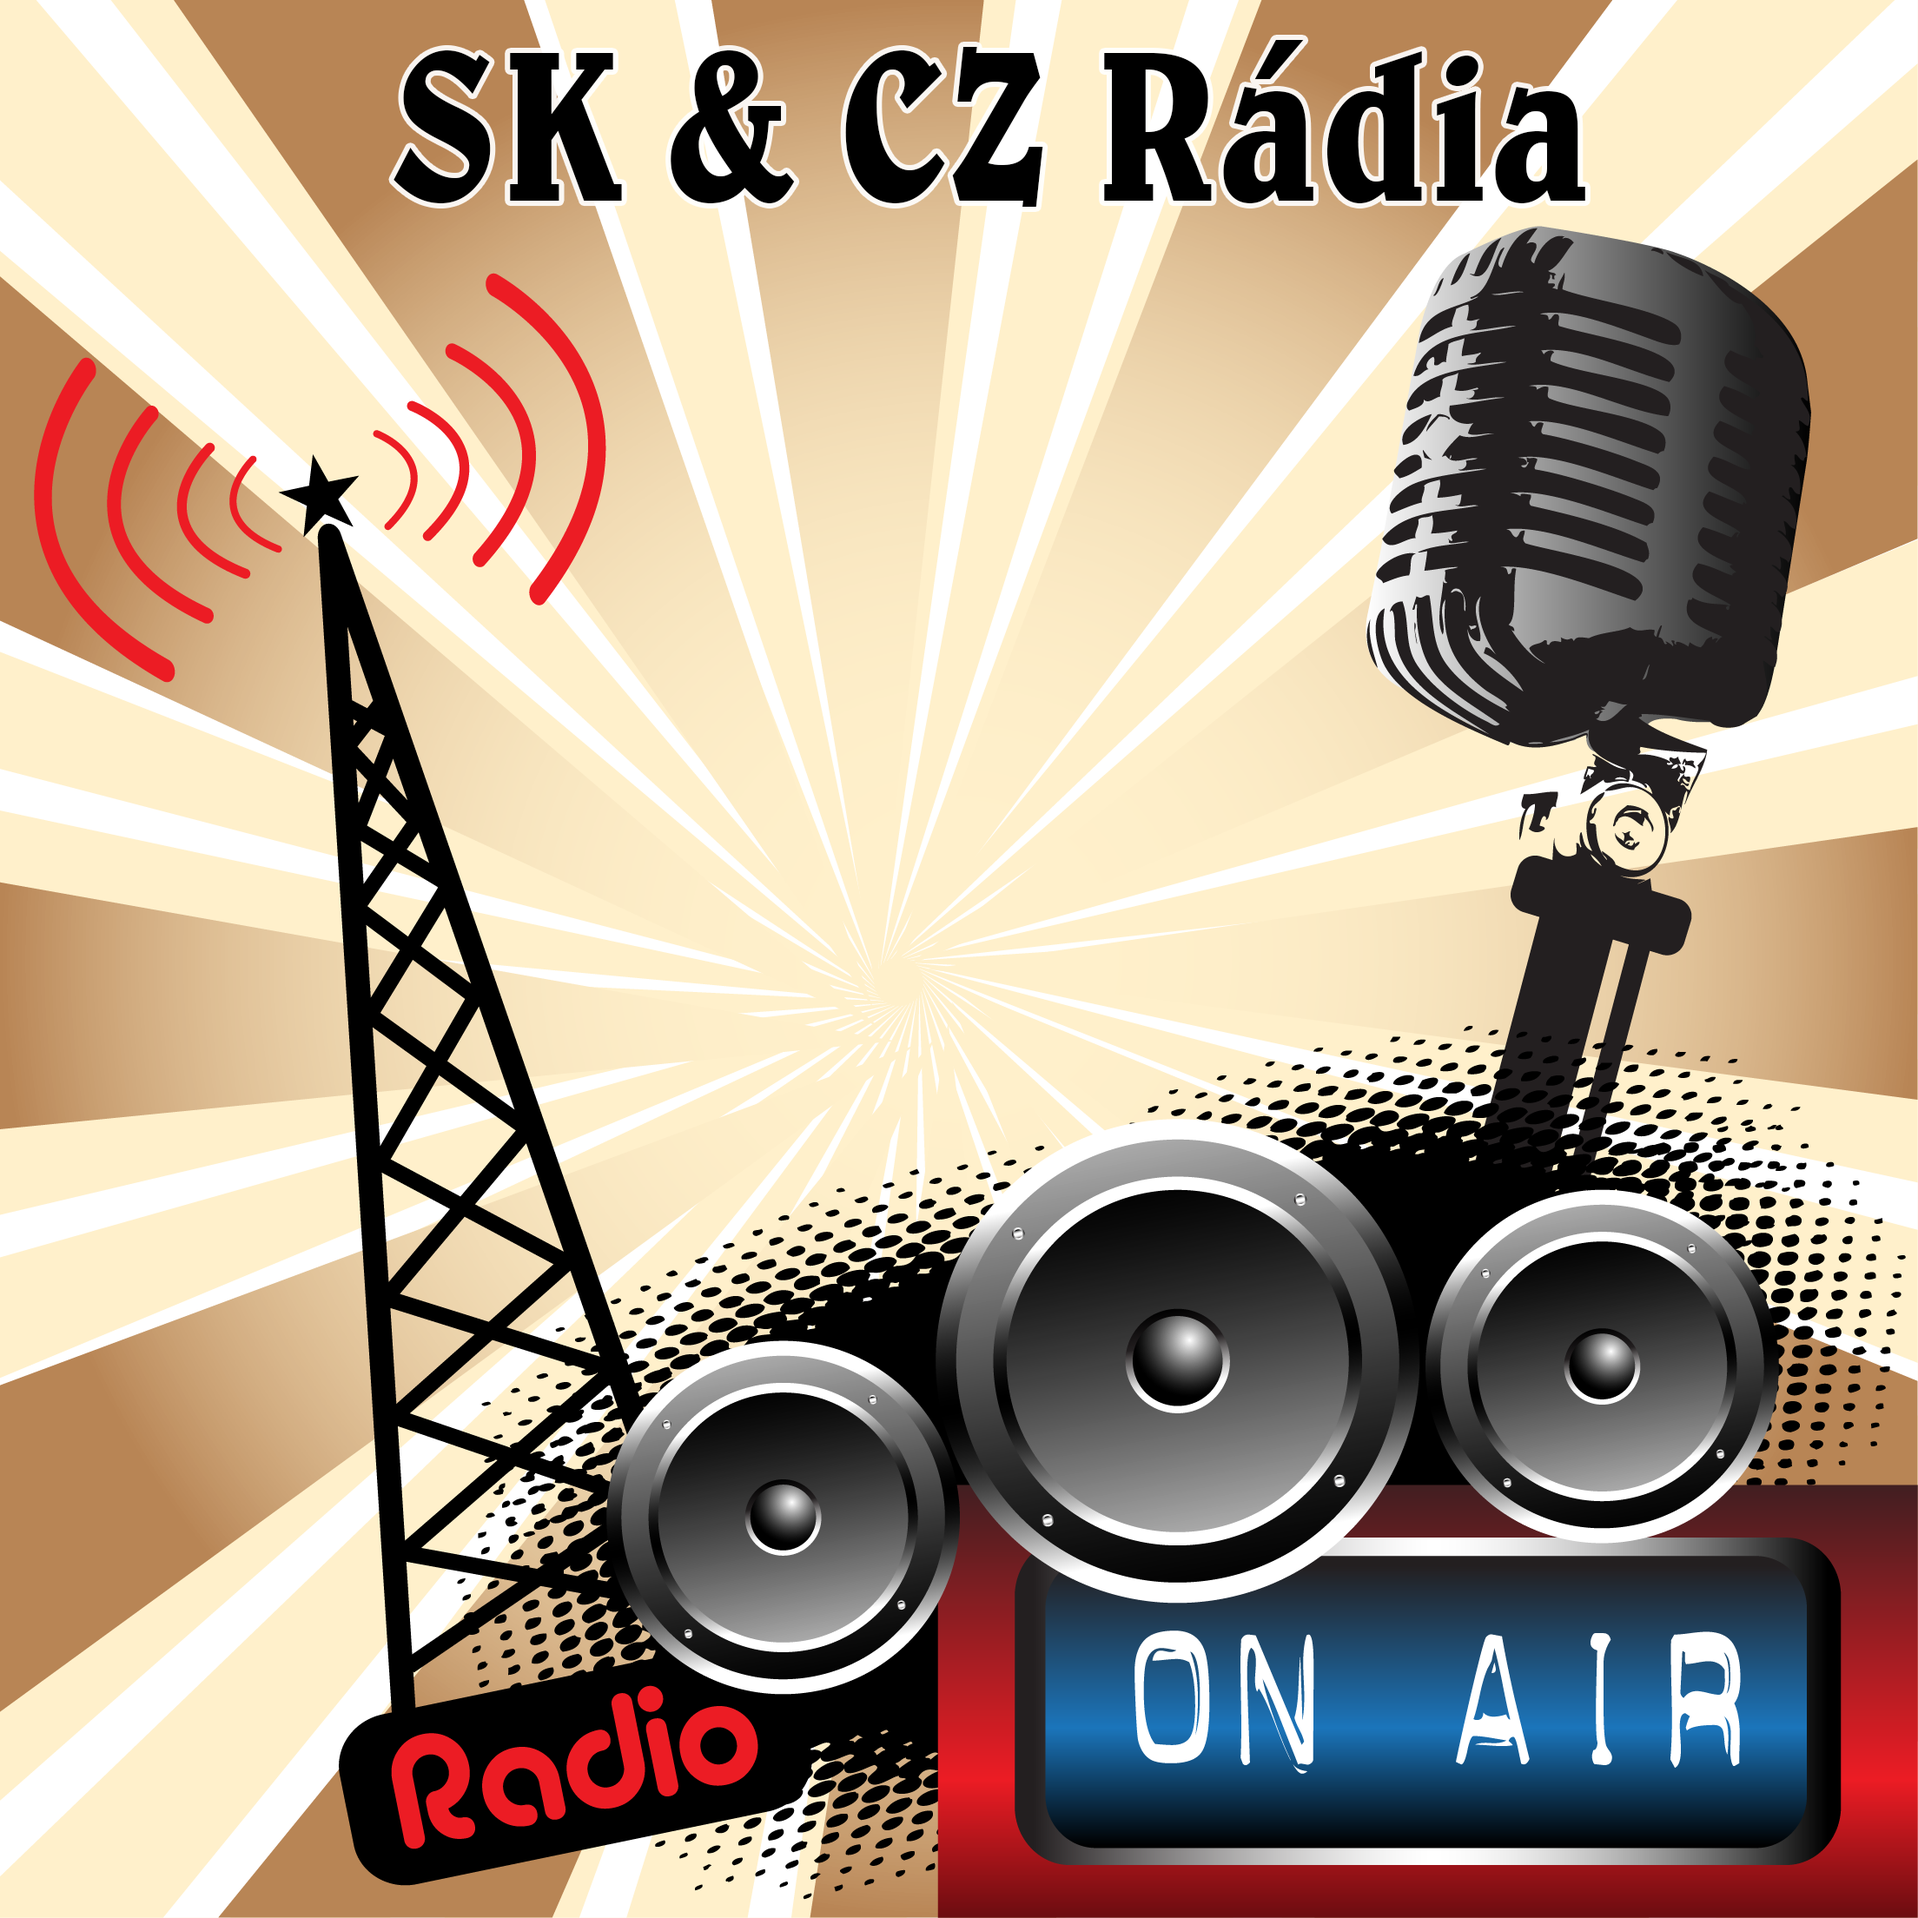
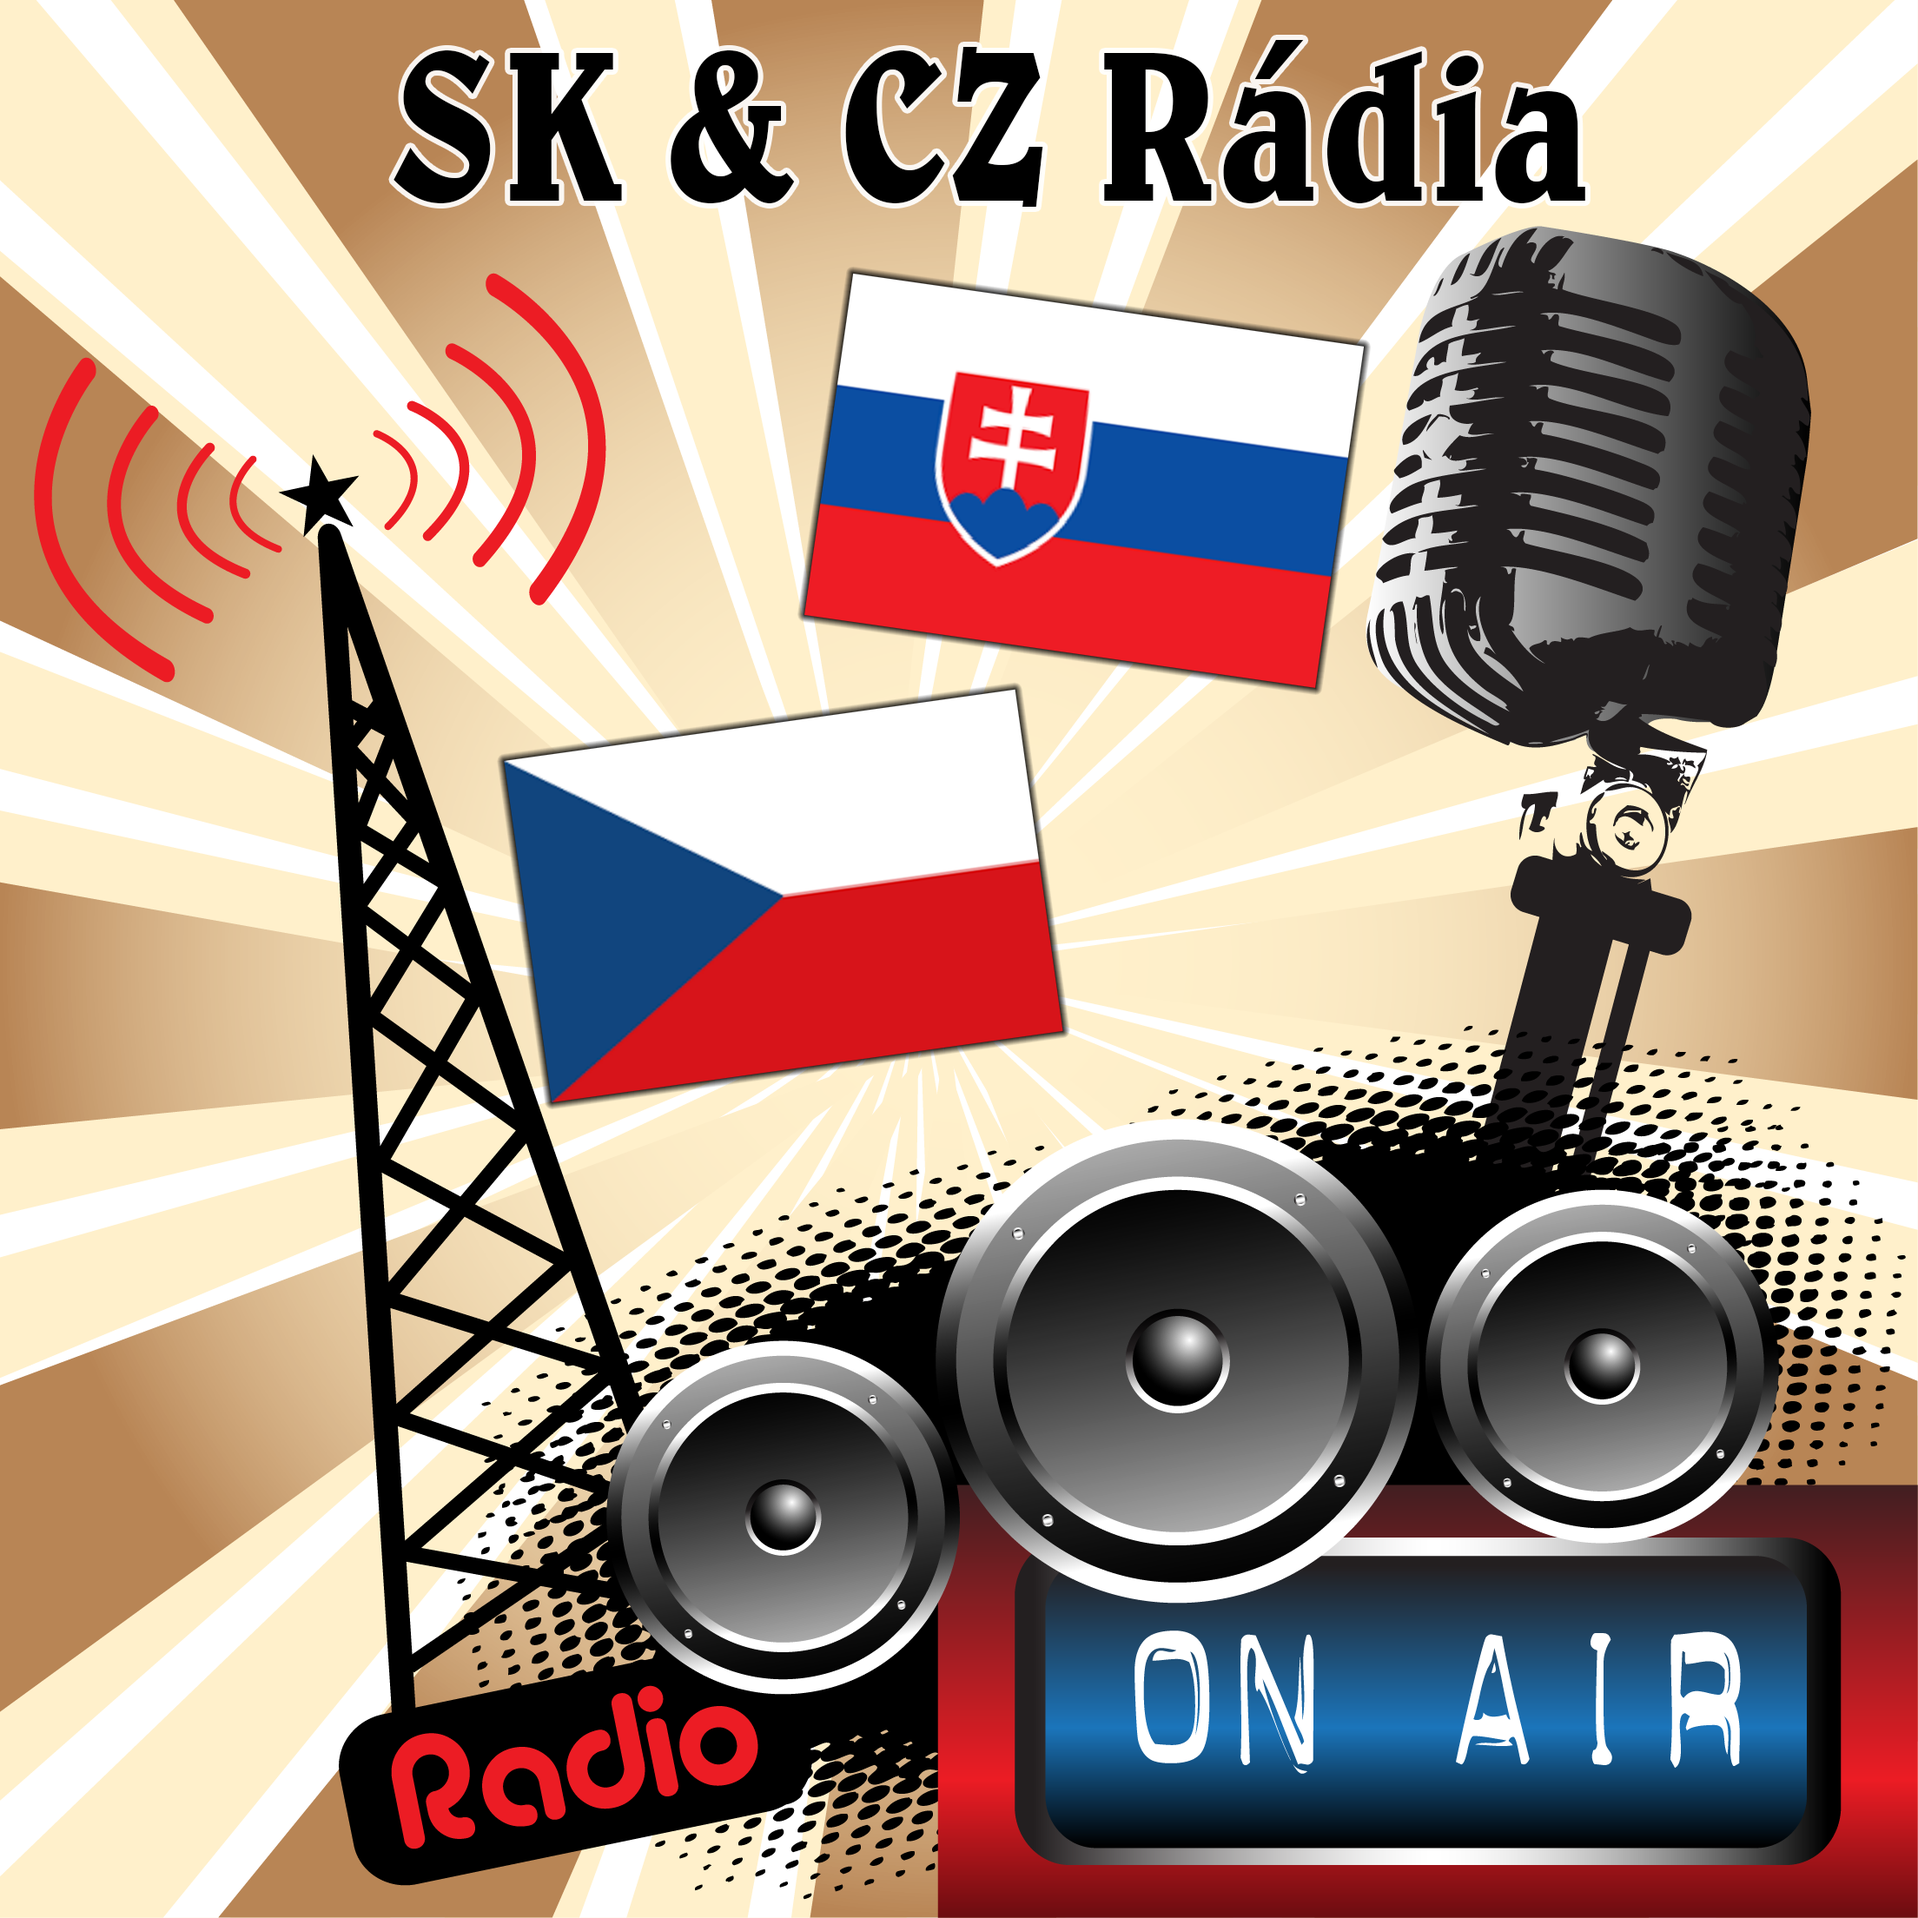
-pridaná diakritika do českých rádií -pridané 10 najpopulárnejších SK staníc -pridané 10 najpopulárnejších CZ staníc -nový Fanart a ikony -české rádia usporiadané podľa abecedy -nefunkčné streamy nahradené/odstránené - 100% funkčnosť všetkých streamov

Changed region(s): [[0.25, 0.125, 0.7188, 0.5938]]

diff --git a/resources/lib/radioSlovakia.py b/resources/lib/radioSlovakia.py
@@ -31,10 +31,10 @@ class Main:
         self = selfGet
     
         list = [
-            		['Rádio 7', 'http://play.twr.sk:8000/128', 'https://i11.servimg.com/u/f11/19/40/01/67/radio710.jpg'],
+            ['Rádio 7', 'http://play.twr.sk:8000/128', 'https://i11.servimg.com/u/f11/19/40/01/67/radio710.jpg'],
 			['Rádio 9', 'http://147.232.191.167:8000/high.mp3', 'https://i.imgur.com/lAZ0Jyv.png'],
-			['Rádio Aetter', 'http://stream.aetter.sk:8000/;stream/1', 'https://i11.servimg.com/u/f11/19/40/01/67/radioa10.jpg'],
-            		['Rádio Aktual', 'http://stream.radioaktual.sk:8000/aktual128.mp3', 'https://i11.servimg.com/u/f11/19/40/01/67/radioa11.jpg'],
+			#['Rádio Aetter', 'http://stream.aetter.sk:8000/;stream/1', 'https://i11.servimg.com/u/f11/19/40/01/67/radioa10.jpg'], -nefunkčné
+            #['Rádio Aktual', 'http://stream.radioaktual.sk:8000/aktual128.mp3', 'https://i11.servimg.com/u/f11/19/40/01/67/radioa11.jpg'], -nefunkčné
 			['Aligator (Rock)', 'http://stream.aligator.sk:8000/aligator_192.mp3', 'https://i11.servimg.com/u/f11/19/40/01/67/radioa12.jpg'],
 			['Rádio Anténa Rock', 'http://stream.antenarock.sk/antena-hi.mp3', 'https://i11.servimg.com/u/f11/19/40/01/67/radior16.jpg'],
 			['Rádio Anténa Rock Hard', 'http://stream.radioservices.sk/hardrock.mp3', 'https://www.antenarock.sk/html/assets/antenarock/images/tile-antenarock-hard.jpg'],
@@ -82,7 +82,7 @@ class Main:
 			['Rádio Piešťany', 'http://live.radiopiestany.sk:8000/live.mp3', 'https://i11.servimg.com/u/f11/19/40/01/67/radiop12.jpg'],
 			['Rádio Plus', 'http://stream.sepia.sk:8000/plus128.mp3', 'https://i11.servimg.com/u/f11/19/40/01/67/radiop10.jpg'],
 			['Rádio Pohoda', 'http://95.154.254.83:26682/;stream/1', 'https://i46.servimg.com/u/f46/19/40/01/67/radiop10.jpg'],
-			['Rádio Pyramída (Hovorene slovo / Pop)', 'http://icecast.stv.livebox.sk/pyramida_128.mp3', 'https://i62.servimg.com/u/f62/19/40/01/67/radiop21.jpg'],
+			['Rádio Pyramída (Hovorené slovo / Pop)', 'http://icecast.stv.livebox.sk/pyramida_128.mp3', 'https://i62.servimg.com/u/f62/19/40/01/67/radiop21.jpg'],
 			['Rádio R1 (Rómska hudba)', 'http://allnet.radionet.sk:8000/radioR1.mp3', 'https://i62.servimg.com/u/f62/19/40/01/67/radior26.jpg'],
 			['Rádio Rapeš', 'http://158.193.51.60:8000/live.mp3', 'https://i.imgur.com/5tQ0zCZ.png'],
 			['Rádio Rebeca', 'http://allnet.radionet.sk:8000/radiorebeca.mp3', 'https://i11.servimg.com/u/f11/19/40/01/67/radior14.jpg'],
@@ -126,7 +126,7 @@ class Main:
             i = 0
             for key in list:
                 listItem = xbmcgui.ListItem(label=key[0], iconImage=key[2])
-                xbmcplugin.addDirectoryItem(handle=int(sys.argv[1]), url=sys.argv[0] + '?anty_' + str(i), listitem=listItem, isFolder=True)
+                xbmcplugin.addDirectoryItem(handle=int(sys.argv[1]), url=sys.argv[0] + '?sk_' + str(i), listitem=listItem, isFolder=True)
                 i = i + 1
             xbmcplugin.endOfDirectory(int(sys.argv[1]))
         

diff --git a/default.py b/default.py
@@ -15,6 +15,7 @@ __addon__           = xbmcaddon.Addon()
 __addon_id__        = __addon__.getAddonInfo('id')
 __addonname__       = __addon__.getAddonInfo('name')
 __icon__            = __addon__.getAddonInfo('icon')
+__fanart__			= __addon__.getAddonInfo('fanart')
 __addonpath__       = xbmc.translatePath(__addon__.getAddonInfo('path'))
 __lang__            = __addon__.getLocalizedString
 __path__            = os.path.join(__addonpath__, 'resources', 'lib' )
@@ -39,10 +40,14 @@ class Radio:
             self.opt2 = optMatches2[0]
 
 
-        if self.opt == 'anty':
+        if self.opt == 'sk':
             import radioSlovakia as start
         elif self.opt == 'cz':
             import radioCzechRepublic as start
+        elif self.opt == 'topSK':
+            import favouriteSK as start
+        elif self.opt == 'topCZ':
+            import favouriteCZ as start
 
         else:
             import radioMenu as start

diff --git a/resources/lib/radioMenu.py b/resources/lib/radioMenu.py
@@ -31,8 +31,10 @@ class Main:
         self = selfGet
         
         list = [
-		['Slovenské rádia', sys.argv[0] + '?anty', 'radioSlovakia.png', ''],
+		['Slovenské rádia', sys.argv[0] + '?sk', 'radioSlovakia.png', ''],
         ['České rádia', sys.argv[0] + '?cz', 'radioCzechRepublic.png', ''],
+		['Top 10 SK', sys.argv[0] + '?topSK', 'favouriteSK.png', ''],
+		['Top 10 CZ', sys.argv[0] + '?topCZ', 'favouriteCZ.png', ''],
             ]
                 
         for v in list:

diff --git a/README.md b/README.md
@@ -1,4 +1,2 @@
 # plugin.sk.and.cz.radia
-<br> Kodi plugin umožňujúci počúvanie Slovenských a Českých rozhlasových staníc. </br>
-<br> -Slovenských: 90 </br>
-<br> -Českých: 120 </br>
+Kodi plugin umožňujúci počúvanie Slovenských a Českých rozhlasových staníc.
